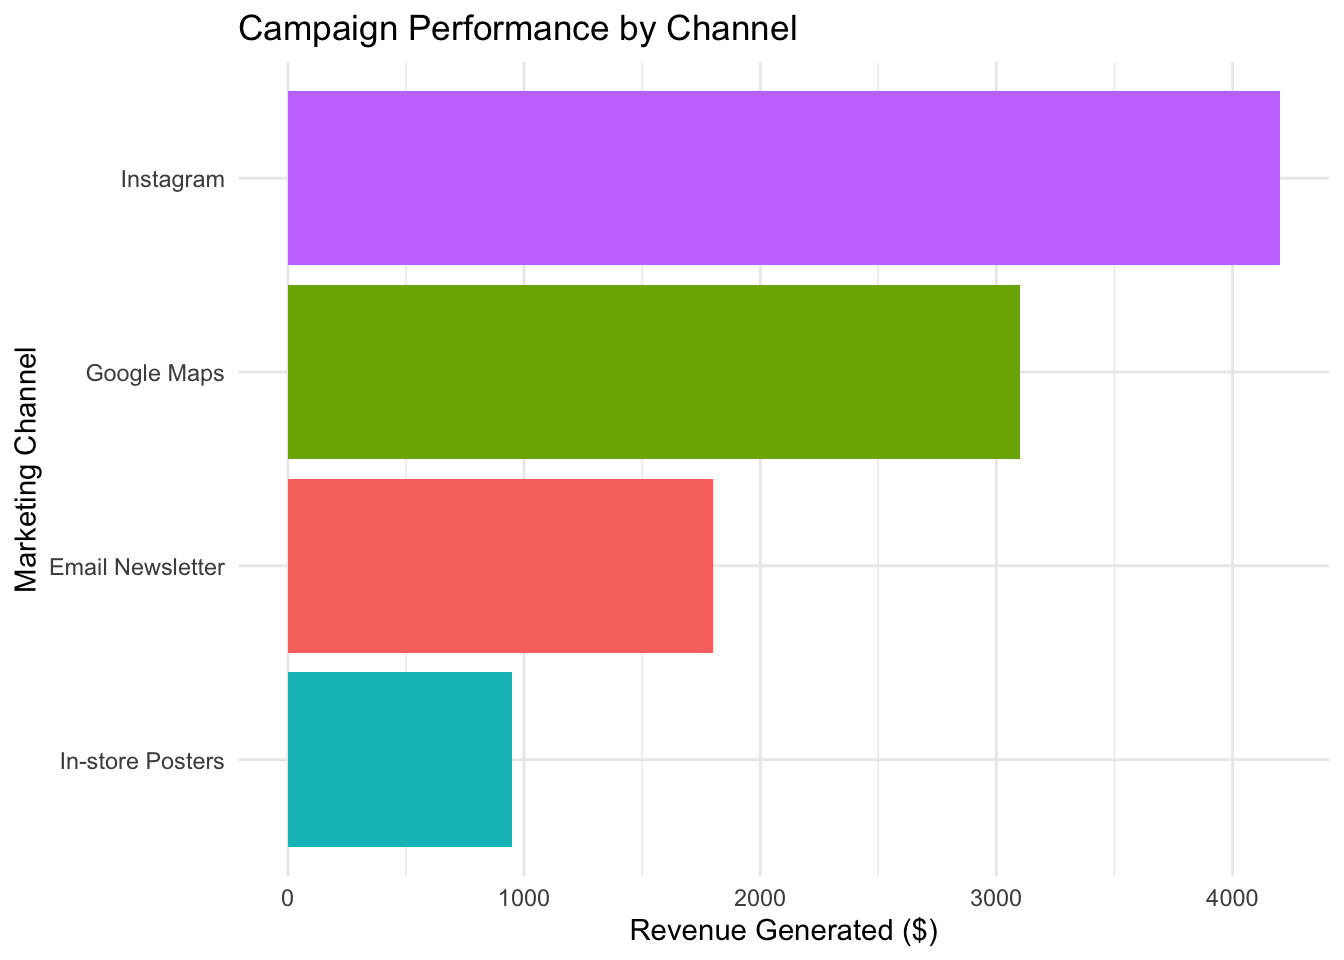
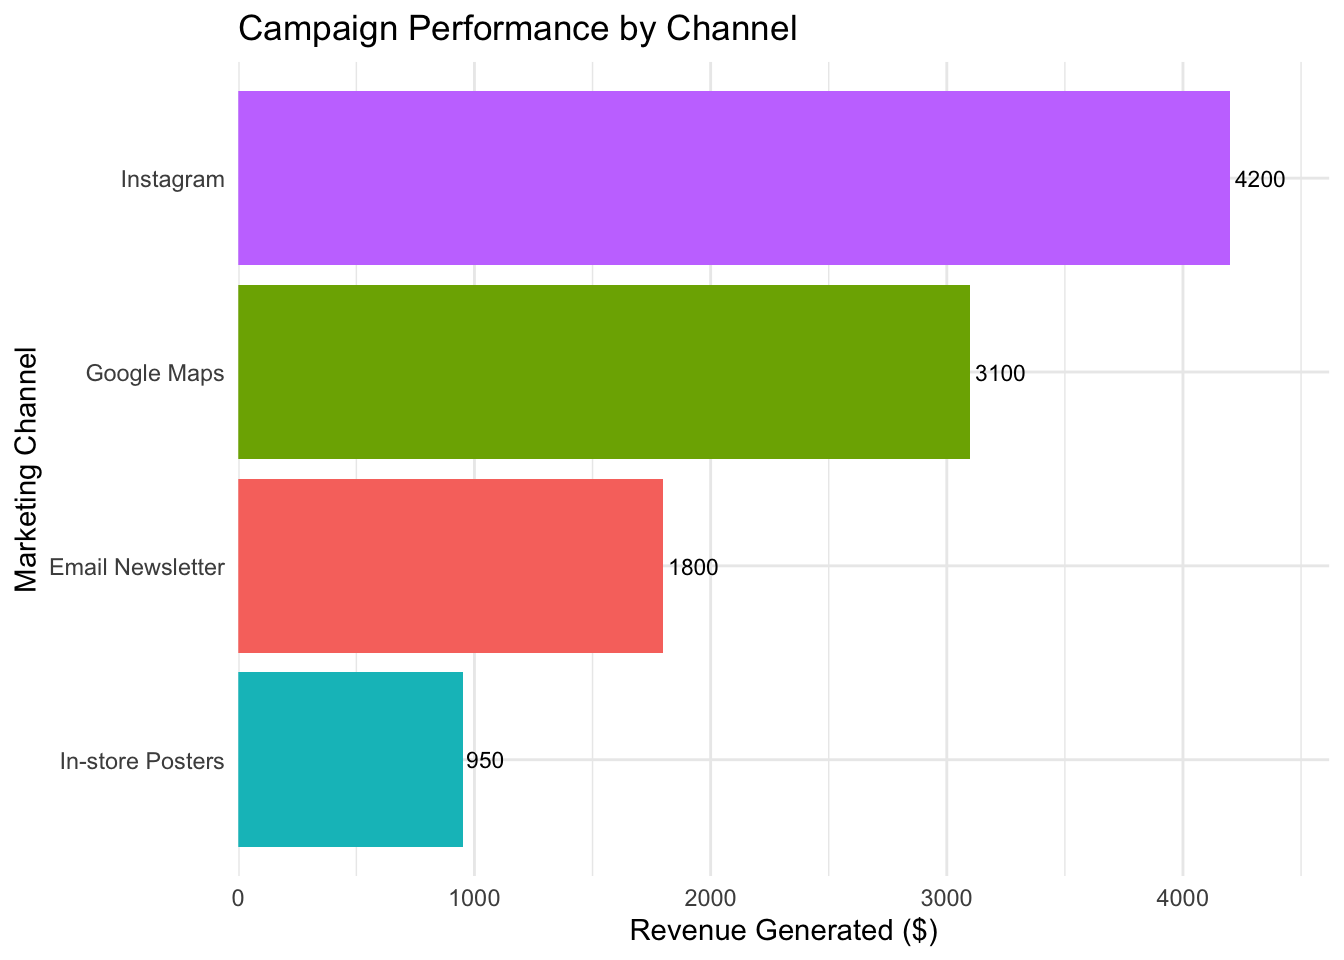
fixed bug

diff --git a/_site/marketing-analytics.html b/_site/marketing-analytics.html
@@ -252,19 +252,24 @@ window.Quarto = {
 <hr>
 <div class="cell">
 <div class="sourceCode cell-code" id="cb1"><pre class="sourceCode r code-with-copy"><code class="sourceCode r"><span id="cb1-1"><a href="#cb1-1" aria-hidden="true" tabindex="-1"></a><span class="fu">library</span>(ggplot2)</span>
-<span id="cb1-2"><a href="#cb1-2" aria-hidden="true" tabindex="-1"></a></span>
-<span id="cb1-3"><a href="#cb1-3" aria-hidden="true" tabindex="-1"></a>data <span class="ot">&lt;-</span> <span class="fu">data.frame</span>(</span>
-<span id="cb1-4"><a href="#cb1-4" aria-hidden="true" tabindex="-1"></a>  <span class="at">Channel =</span> <span class="fu">c</span>(<span class="st">"Instagram"</span>, <span class="st">"Google Maps"</span>, <span class="st">"Email Newsletter"</span>, <span class="st">"In-store Posters"</span>),</span>
-<span id="cb1-5"><a href="#cb1-5" aria-hidden="true" tabindex="-1"></a>  <span class="at">Revenue =</span> <span class="fu">c</span>(<span class="dv">4200</span>, <span class="dv">3100</span>, <span class="dv">1800</span>, <span class="dv">950</span>)</span>
-<span id="cb1-6"><a href="#cb1-6" aria-hidden="true" tabindex="-1"></a>)</span>
+<span id="cb1-2"><a href="#cb1-2" aria-hidden="true" tabindex="-1"></a><span class="co"># Your exact data</span></span>
+<span id="cb1-3"><a href="#cb1-3" aria-hidden="true" tabindex="-1"></a>data <span class="ot">&lt;-</span> <span class="fu">structure</span>(<span class="fu">list</span>(</span>
+<span id="cb1-4"><a href="#cb1-4" aria-hidden="true" tabindex="-1"></a>  <span class="at">Channel =</span> <span class="fu">c</span>(<span class="st">"Instagram"</span>, <span class="st">"Google Maps"</span>, <span class="st">"Email Newsletter"</span>, <span class="st">"In-store Posters"</span>), </span>
+<span id="cb1-5"><a href="#cb1-5" aria-hidden="true" tabindex="-1"></a>  <span class="at">Revenue =</span> <span class="fu">c</span>(<span class="dv">4200</span>, <span class="dv">3100</span>, <span class="dv">1800</span>, <span class="dv">950</span>)), </span>
+<span id="cb1-6"><a href="#cb1-6" aria-hidden="true" tabindex="-1"></a>  <span class="at">class =</span> <span class="st">"data.frame"</span>, <span class="at">row.names =</span> <span class="fu">c</span>(<span class="cn">NA</span>, <span class="sc">-</span><span class="dv">4</span>L))</span>
 <span id="cb1-7"><a href="#cb1-7" aria-hidden="true" tabindex="-1"></a></span>
-<span id="cb1-8"><a href="#cb1-8" aria-hidden="true" tabindex="-1"></a><span class="fu">ggplot</span>(data, <span class="fu">aes</span>(<span class="at">x =</span> <span class="fu">reorder</span>(Channel, Revenue), <span class="at">y =</span> Revenue, <span class="at">fill =</span> Channel)) <span class="sc">+</span></span>
-<span id="cb1-9"><a href="#cb1-9" aria-hidden="true" tabindex="-1"></a>  <span class="fu">geom_col</span>(<span class="at">show.legend =</span> <span class="cn">FALSE</span>) <span class="sc">+</span></span>
-<span id="cb1-10"><a href="#cb1-10" aria-hidden="true" tabindex="-1"></a>  <span class="fu">coord_flip</span>() <span class="sc">+</span></span>
-<span id="cb1-11"><a href="#cb1-11" aria-hidden="true" tabindex="-1"></a>  <span class="fu">labs</span>(<span class="at">title =</span> <span class="st">"Campaign Performance by Channel"</span>,</span>
-<span id="cb1-12"><a href="#cb1-12" aria-hidden="true" tabindex="-1"></a>       <span class="at">x =</span> <span class="st">"Marketing Channel"</span>,</span>
-<span id="cb1-13"><a href="#cb1-13" aria-hidden="true" tabindex="-1"></a>       <span class="at">y =</span> <span class="st">"Revenue Generated ($)"</span>) <span class="sc">+</span></span>
-<span id="cb1-14"><a href="#cb1-14" aria-hidden="true" tabindex="-1"></a>  <span class="fu">theme_minimal</span>()</span></code><button title="Copy to Clipboard" class="code-copy-button"><i class="bi"></i></button></pre></div>
+<span id="cb1-8"><a href="#cb1-8" aria-hidden="true" tabindex="-1"></a><span class="co"># Plot with explicit data reference</span></span>
+<span id="cb1-9"><a href="#cb1-9" aria-hidden="true" tabindex="-1"></a><span class="fu">ggplot</span>(data, <span class="fu">aes</span>(<span class="at">x =</span> <span class="fu">reorder</span>(.data<span class="sc">$</span>Channel, .data<span class="sc">$</span>Revenue), </span>
+<span id="cb1-10"><a href="#cb1-10" aria-hidden="true" tabindex="-1"></a>             <span class="at">y =</span> .data<span class="sc">$</span>Revenue, </span>
+<span id="cb1-11"><a href="#cb1-11" aria-hidden="true" tabindex="-1"></a>             <span class="at">fill =</span> .data<span class="sc">$</span>Channel)) <span class="sc">+</span></span>
+<span id="cb1-12"><a href="#cb1-12" aria-hidden="true" tabindex="-1"></a>  <span class="fu">geom_col</span>(<span class="at">show.legend =</span> <span class="cn">FALSE</span>) <span class="sc">+</span></span>
+<span id="cb1-13"><a href="#cb1-13" aria-hidden="true" tabindex="-1"></a>  <span class="fu">coord_flip</span>() <span class="sc">+</span></span>
+<span id="cb1-14"><a href="#cb1-14" aria-hidden="true" tabindex="-1"></a>  <span class="fu">labs</span>(<span class="at">title =</span> <span class="st">"Campaign Performance by Channel"</span>,</span>
+<span id="cb1-15"><a href="#cb1-15" aria-hidden="true" tabindex="-1"></a>       <span class="at">x =</span> <span class="st">"Marketing Channel"</span>,</span>
+<span id="cb1-16"><a href="#cb1-16" aria-hidden="true" tabindex="-1"></a>       <span class="at">y =</span> <span class="st">"Revenue Generated ($)"</span>) <span class="sc">+</span></span>
+<span id="cb1-17"><a href="#cb1-17" aria-hidden="true" tabindex="-1"></a>  <span class="fu">theme_minimal</span>() <span class="sc">+</span></span>
+<span id="cb1-18"><a href="#cb1-18" aria-hidden="true" tabindex="-1"></a>  <span class="fu">geom_text</span>(<span class="fu">aes</span>(<span class="at">label =</span> Revenue), <span class="at">hjust =</span> <span class="sc">-</span><span class="fl">0.1</span>, <span class="at">size =</span> <span class="dv">3</span>) <span class="sc">+</span>  <span class="co"># Add value labels</span></span>
+<span id="cb1-19"><a href="#cb1-19" aria-hidden="true" tabindex="-1"></a>  <span class="fu">scale_y_continuous</span>(<span class="at">expand =</span> <span class="fu">expansion</span>(<span class="at">mult =</span> <span class="fu">c</span>(<span class="dv">0</span>, <span class="fl">0.1</span>)))    <span class="co"># Make space for labels</span></span></code><button title="Copy to Clipboard" class="code-copy-button"><i class="bi"></i></button></pre></div>
 <div class="cell-output-display">
 <div>
 <figure class="figure">

diff --git a/_site/index.html b/_site/index.html
@@ -148,7 +148,7 @@ ul.task-list li input[type="checkbox"] {
 
 <div class="columns">
 <div class="column" style="width:30%;">
-<p><img src="https://placehold.co/530x530?text=images/profile.png" class="img-fluid" style="border-radius: 50%;;width:100.0%"></p>
+<p><img src="./images/profile.png" class="img-fluid" style="border-radius: 50%;;width:100.0%"></p>
 </div><div class="column" style="padding-left: 3rem;">
 <p>I am an entrepreneur and business owner. I specialize in building community-centered experiences and leading operations that turn vision into reality. Through hands-on management, strategic marketing, and a passion for service, I’ve grown a specialty coffee shop into more than just a place to grab a drink—it’s a welcoming space where people connect, relax, and feel cared for.</p>
 </div>

diff --git a/_site/resume.html b/_site/resume.html
@@ -7,7 +7,7 @@
 <meta name="viewport" content="width=device-width, initial-scale=1.0, user-scalable=yes">
 
 
-<title>Résumé – YOUR NAME</title>
+<title>Résumé – Miguel Lau</title>
 <style>
 code{white-space: pre-wrap;}
 span.smallcaps{font-variant: small-caps;}
@@ -78,7 +78,7 @@ ul.task-list li input[type="checkbox"] {
       <div class="navbar-container container-fluid">
       <div class="navbar-brand-container mx-auto">
     <a class="navbar-brand" href="./index.html">
-    <span class="navbar-title">YOUR NAME</span>
+    <span class="navbar-title">Miguel Lau</span>
     </a>
   </div>
             <div id="quarto-search" class="" title="Search"></div>
